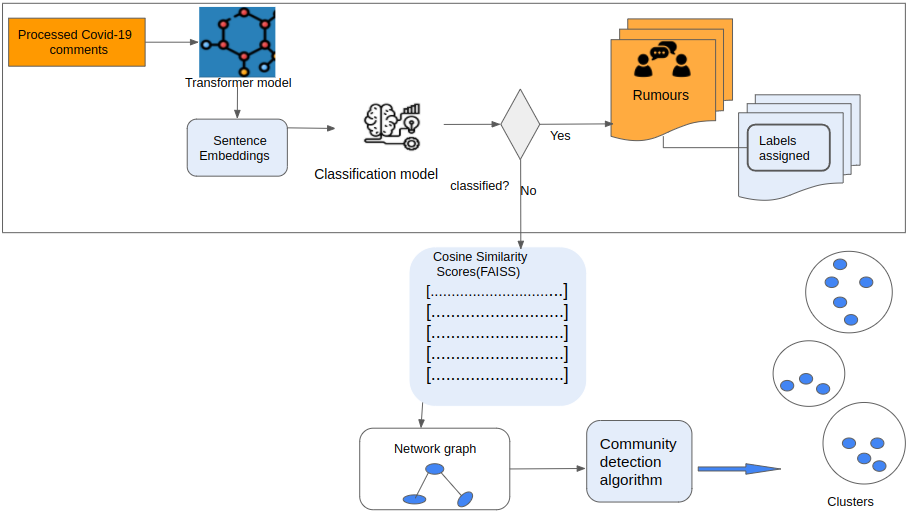
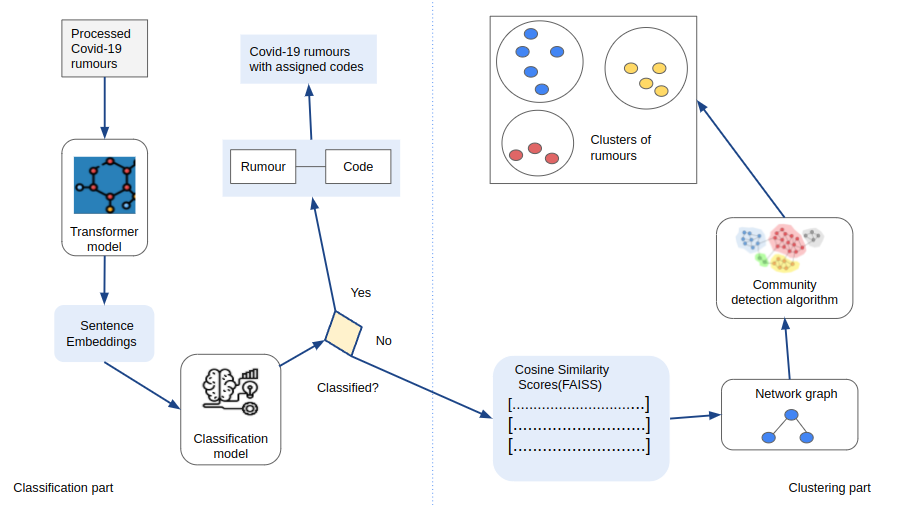
Readme

diff --git a/README.md b/README.md
@@ -1,16 +1,28 @@
+<!-- #region -->
+
 # Collective Crisis Intelligence Project for The Cameroon Red Cross
 
-## Contents
+# Contents
 
-- Background
-- Overview of the prototype
+- [Background](#background)
+- [Overview of the prototype](#overview-of-the-prototype)
+- [Model workflow](#model-workflow)
+  - [Data preprocessing](#data-preprocessing)
+  - [The classification model](#the-classification-model)
+  - [The clustering model](#the-clustering-model)
+- [Running the models](#running-the-models)
+- [Steps to take before running the model](#steps-to-take-before-running-the-model)
+- [Pre-trained models (classification)](<#pre-trained-models-(classification)>)
+- [Input needed](#input-needed)
+- [Run the models](#run-the-model)
+- [Outputs](#outputs)
 
-## Background
+# Background
 
 The outbreak of COVID-19 witnessed an avalanche of rumours and misinformation as people around the world grappled with the disease. The Cameroon Red Cross (CRC) needed a way to both identify and address the rumours and misinformation that was arising on covid-19. With the help of the International Federation of the Red Cross (IFRC), the CRC have been collecting feedback from communities on covid-19 including rumours, beliefs and observations. So far the approach of collecting, coding and acting on these rumours has been manual, where members of the IFRC assign new rumours to codes and the CRC address new rumours with an appropriate response through different channels.
 This project explores ways to use supervised and unsupervised machine learning methods to both classify rumours to existing codes and suggest new rumour groups for the CRC to address.
 
-## Overview of the prototype
+# Overview of the prototype
 
 The prototype tool handles new rumours in two steps. First it tries to classify them to one of the existing eight codes using a predictive model. If the rumour does not fit one of these codes it is added to a pool of unmatched data points to be clustered into different groups. Figure 1 summarises the major steps of the prototype.
 
@@ -18,15 +30,17 @@ The prototype tool handles new rumours in two steps. First it tries to classify 
 
 Figure 1: System Components
 
+<!-- #endregion -->
+
 <!-- #region -->
 
-## Model workflow
+# Model workflow
 
-### Data preprocessing
+## Data preprocessing
 
 Obtained data on COVID-19 was preprocessed before use. The majority of the comments found in the dataset are in French. Comments found in other languages such as English were translated into French using the google translator library. Next we inspected the distribution of comments into the various codes present. Data points corresponding to 8 labels were retained for model development. Using workshop sessions conducted by CRC volunteers, data labeling exercise was conducted in which different groups did label the same data point thrice. Using a majority vote, data points which got the majority vote were retained. The pre-processed data is split into a train/test datasets and saved in the outputs/data directory. The script used in the data pre-processing is [data_splitting.py](https://github.com/nestauk/cci_cameroon/blob/10_model_pipeline/cci_cameroon/pipeline/data_splitting.py)
 
-### The classification model
+## The classification model
 
 The cleaned data was split into train/test sets using the proportion 80:20. Different models and their hyperparameters were tested using a combination of gridsearch and k-fold cross validation on the training set. The best performing model was chosen by using the F1 micro metric. K-nearest neighbours classifier was found to have the best performance overall. Functional programming was used with sklearns pipeline to optimise the model tuning and development process.
 
@@ -36,7 +50,7 @@ As shown in the figure, once the comments are cleaned, they are fed into an inst
 
 New data points from the test set are then introduced into the model which tries to match each data point to an existing label. Where the probability of a data point belonging to a label is less than a threshold of 0.5, the data point is treated as unknown. These unclassified data points are then fed into the clustering algorithm which produces groups.
 
-### The clustering model
+## The clustering model
 
 The clustering model development is performed in a file named [clustering_model_development.py](https://github.com/nestauk/cci_cameroon/tree/10_model_pipeline/cci_cameroon/analysis/model_development). The process followed by the clustering algorithm is summarized by the steps below:
 
@@ -45,11 +59,11 @@ The clustering model development is performed in a file named [clustering_model_
 - The resulting network is fed into a community detection algorithm. This produces clusters of comments as output.
 <!-- #endregion -->
 
-## Running the models
+# Running the models
 
 The final scripts for the classification (classification_model_run.py) and clustering(clustering_model_run.py) models and are found in [pipeline directory](https://github.com/nestauk/cci_cameroon/tree/10_model_pipeline/cci_cameroon/pipeline/model_run) in a folder called model_run. The scripts use the held out test dataset to first classify the rumours and then cluster the rumours that cannot be classified. Both scripts can be run separately and can use any new rumour datasets that are in the correct format (contain a comment field for predicting and clustering).
 
-## Steps to take before running
+# Steps to take before running
 
 To run the models you will first need to setup the project by following the steps below:
 
@@ -58,13 +72,13 @@ To run the models you will first need to setup the project by following the step
 3. Inside the project directory run `make inputs-pull` to access the data from S3 (for those with access to the Nesta S3 account)
    To note the project is setup using the Nesta Cookiecutter (guidelines on the Nesta Cookiecutter [can be found here](https://nestauk.github.io/ds-cookiecutter/structure/)).
 
-## Pre-trained models (classification)
+# Pre-trained models (classification)
 
 The pre-trained classification model is saved to outputs/model. This model is fitted using the same IFRC dataset that the test set came from. The script to run the file is in the pipeline folder and is called `classification_model_save.py`
 
 The MultiLabelBinarizer model is used to access the classes to create the predictions dataset. This model is also created and saved to outputs by running classification_model_save.py.
 
-## Input needed
+# Input needed
 
 After you setup the project you will need your test dataset. To build our models we used the dataset provided to us by the IFRC and Cameroon Red Cross containing rumours, beliefs and observations from community members (more information on the data source can be found on the IFRC.Go website). To run the scripts the data needs to be in the following format:
 
@@ -74,32 +88,31 @@ id comment
 numeric rumour text
 The reason for having an ID column is so you can reference back the prediction files to the original test dataset (if needed for reporting results).
 
-## Run the models
+# Run the models
 
 Perform the following steps to run the models:
 
-1. cd into pipeline/model_run
+1. cd into `pipeline/model_run`
 2. run `python3 classification_model_run.py`
 3. run `python3 clustering_model_run.py`
 
-## Outputs
+# Outputs
 
 There are three files created from running the models and saved to outputs:
 
-- all_predictions.xlsx
-- not_classified.xlsx
-- clusters.xlsx
-  The first two are created from the `classification_model_run.py` file and the third is created from `clustering_model_run.py` file. If a rumour is classified by the model to one or more of the eight codes it is saved in the all_predictions.xlsx file. If the rumour cannot be classfied it is saved into the the not_classified.xlsx file. Both files also save the rumours ID assigned so it can be referenced back to the test set for reporting.
+- `all_predictions.xlsx`
+- `not_classified.xlsx`
+- `clusters.xlsx`
+
+The first two are created from the `classification_model_run.py` file and the third is created from `clustering_model_run.py` file. If a rumour is classified by the model to one or more of the eight codes it is saved in the `all_predictions.xlsx` file. If the rumour cannot be classfied it is saved into the the `not_classified.xlsx` file. Both files also save the rumours ID assigned so it can be referenced back to the test set for reporting.
 
 The not_classified.xlsx file is used as input to run the clustering algorthm in the clustering_model_run.py file in the same folder.
 
 The clusters.xlsx file contains the unclassified comments broken into the clusters chosen by the clustering model. Each cluster in saved as a seperate sheet in the excel file.
 
-## Using the tool
+# Using the tool
 
-The Collective Crisis Intelligence project for the Cameroon Red Cross aims at developing a prototype of an Artificial Intelligence system that can be used to classify comments in the context of covid-19. Theis aim of the tool is to would help botha volunteers in the field by provideing appropriate and timely responses to community members' comments and CRC staff to handle large groups of unknown rumours. Figure 1 summarises how the use of the tool could be used.
-Once a worker on the field encounters a comment which he/she has not heard before, they quickly capture this and send to the tool by SMS. The tool tries to classify the comment into one of the existing labels. If a match is found, an appropriate response to the comment is returned by the system which the user transmits to the community member.
-Where a match is not found, the comment is sent to a pool that would be clustered. The resulting clusters are sent to a staff to assign labels and appropriate responses to them.
+The Collective Crisis Intelligence project for the Cameroon Red Cross aims at developing a prototype of an Artificial Intelligence system that can be used to classify comments in the context of covid-19. The aim of the tool is to both help volunteers in the field provide appropriate and timely responses to community members' comments and CRC staff to handle large groups of unknown rumours. Figure 1 summarises how the tool could be used.
 
 ![How the tool is used](outputs/figures/readme/tool_works.png)
 Figure 2: How the tool is used
